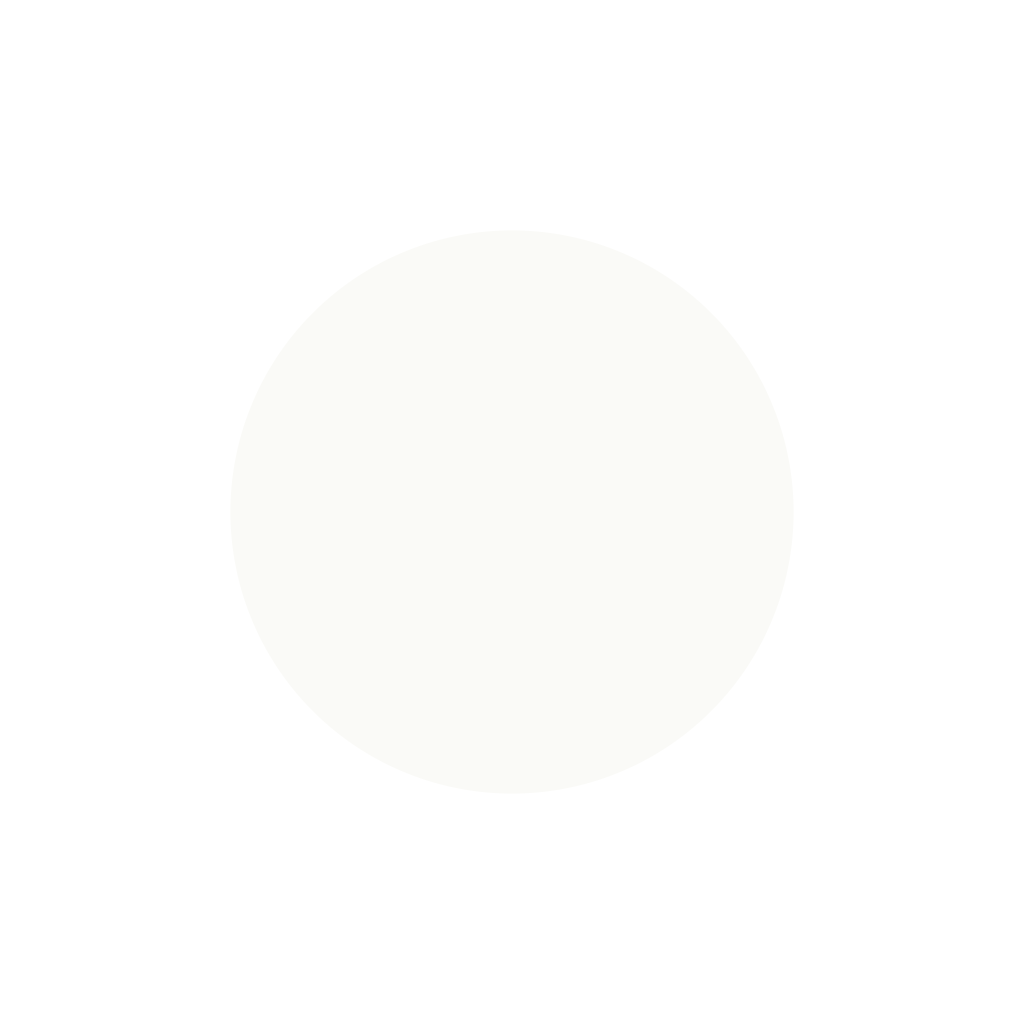
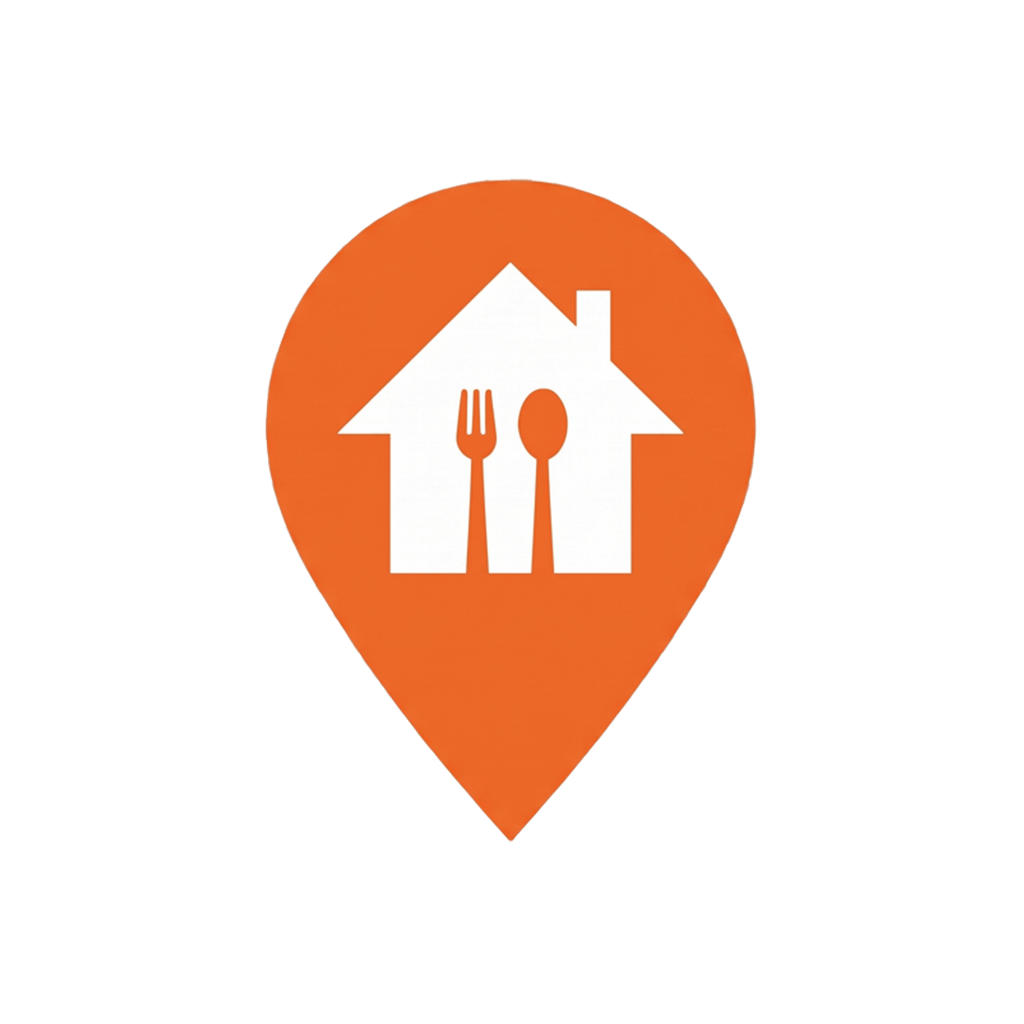
feat(mobile,admin): reemplazar el pin dibujado a mano por el isotipo real
El pin de PinFoodHub (mobile) y el marker de LogoFoodhub (admin) eran
reconstrucciones a mano del isotipo, según advertían sus propios
comentarios. Se incrusta IsotipoFoodHub.png tal cual en los dos
componentes, se regenera adaptive-icon.png con el isotipo centrado en
la zona segura de Android (con backgroundColor blanco para que no se
funda con el pin naranja) y se agrega el favicon del panel admin, que
no existía.

Changed region(s): [[0.25, 0.1562, 0.75, 0.8125]]

diff --git a/apps/mobile/src/components/Marca.tsx b/apps/mobile/src/components/Marca.tsx
@@ -1,75 +1,28 @@
 import { View, Text } from 'react-native';
-import { Path, Svg } from 'react-native-svg';
-import { useResolveClassNames } from 'uniwind';
+import { Image } from 'expo-image';
+import isotipoFoodHub from '../../assets/isotipo-foodhub.png';
 
-/**
- * Isotipo y logotipo de FoodHub.
- *
- * ADVERTENCIA SOBRE EL ORIGEN DE ESTE DIBUJO
- * ---------------------------------------------------------------------------
- * El repositorio no tiene el archivo vectorial de la marca: `assets/` solo
- * trae marcadores de posición (un círculo plano). El pin de acá es una
- * reconstrucción del que muestra la maquetación —gota con una casita y
- * cubiertos adentro— redibujada con los tokens de la guía visual, no el
- * original. Cuando el archivo real entre al repositorio hay que reemplazarlo:
- * es lo único de este módulo que no sale de una fuente aprobada.
- */
+// El PNG fuente es de 1024x1060; se conserva esa proporción al escalar.
+const RELACION_DE_ASPECTO = 1060 / 1024;
 
-/** Gota de FoodHub. El color sale de un token, nunca de un literal. */
-export function PinFoodHub({
-  size = 96,
-  className = 'text-primary',
-}: {
-  size?: number;
-  className?: string;
-}) {
-  const estiloMarca = useResolveClassNames(className);
-  const estiloInterior = useResolveClassNames('text-surface');
-  const marca =
-    typeof estiloMarca.color === 'string' ? estiloMarca.color : undefined;
-  const interior =
-    typeof estiloInterior.color === 'string' ? estiloInterior.color : undefined;
-
+/** Pin de FoodHub. Es el isotipo aprobado, no una reconstrucción a mano. */
+export function PinFoodHub({ size = 96 }: { size?: number }) {
   return (
-    <Svg
-      width={size}
-      height={size * 1.22}
-      viewBox="0 0 48 58"
-      fill="none"
+    <Image
       accessibilityLabel="FoodHub"
-    >
-      <Path
-        d="M24 1.5C11.85 1.5 2 11.35 2 23.5c0 15.4 18.6 30.8 21.05 32.75a1.5 1.5 0 0 0 1.9 0C27.4 54.3 46 38.9 46 23.5 46 11.35 36.15 1.5 24 1.5Z"
-        fill={marca}
-      />
-      <Path
-        d="M13.5 21.6 24 13.5l10.5 8.1v13.15a1.6 1.6 0 0 1-1.6 1.6H15.1a1.6 1.6 0 0 1-1.6-1.6V21.6Z"
-        fill={interior}
-      />
-      <Path
-        d="M20.4 20.4v4.2a1.7 1.7 0 0 0 3.4 0v-4.2M22.1 24.6v7.6"
-        stroke={marca}
-        strokeWidth={1.9}
-        strokeLinecap="round"
-        strokeLinejoin="round"
-      />
-      <Path
-        d="M27.6 20.4c-1.1 0-2 1.4-2 3.2s.9 3.2 2 3.2v8.4"
-        stroke={marca}
-        strokeWidth={1.9}
-        strokeLinecap="round"
-        strokeLinejoin="round"
-      />
-    </Svg>
+      source={isotipoFoodHub}
+      style={{ width: size, height: size * RELACION_DE_ASPECTO }}
+      contentFit="contain"
+    />
   );
 }
 
 /**
- * Logotipo horizontal: gota chica + palabra.
+ * Logotipo horizontal: pin chico + palabra.
  *
- * "Food" va en primario y "hub" en secundario, como en la guía. Se compone con
- * dos `Text` y no con una imagen para que escale con la tipografía del sistema
- * y siga siendo legible con el cuerpo aumentado.
+ * "Food" va en primario y "hub" en secundario, como en la guía. El texto se
+ * compone con `Text` y no con una imagen para que escale con la tipografía
+ * del sistema y siga siendo legible con el cuerpo aumentado.
  */
 export function MarcaFoodHub({ size = 28 }: { size?: number }) {
   return (

diff --git a/apps/admin/src/components/LogoFoodhub.tsx b/apps/admin/src/components/LogoFoodhub.tsx
@@ -1,10 +1,10 @@
 import { clases } from '../lib/clases.js';
-import { IconoPin } from './iconos/index.js';
+import isotipoFoodhub from '../assets/isotipo-foodhub.png';
 
 /**
- * Marca de FoodHub tal como aparece en la maquetación: el pin naranja y el
- * wordmark partido en dos, "Food" en el color primario y "hub" en el color de
- * apoyo.
+ * Marca de FoodHub tal como aparece en la maquetación: el isotipo (pin
+ * naranja con casita y cubiertos) y el wordmark partido en dos, "Food" en el
+ * color primario y "hub" en el color de apoyo.
  *
  * El nombre completo va en un `aria-label` sobre un solo elemento: separado en
  * dos `<span>`, un lector de pantalla lo leería como "Food. hub".
@@ -16,7 +16,12 @@ export function LogoFoodhub({ className }: { className?: string | undefined }) {
       className={clases('inline-flex items-center gap-2', className)}
       role="img"
     >
-      <IconoPin className="size-6 text-primary" />
+      <img
+        alt=""
+        aria-hidden="true"
+        className="h-6 w-auto shrink-0"
+        src={isotipoFoodhub}
+      />
       <span
         aria-hidden="true"
         className="text-h2 font-extrabold tracking-tight"

diff --git a/apps/admin/src/components/iconos/index.tsx b/apps/admin/src/components/iconos/index.tsx
@@ -301,22 +301,3 @@ export function IconoChevronDerecha({ className }: PropsIcono) {
     </Trazo>
   );
 }
-
-/**
- * Pin del logo. Es el único ícono con relleno: en la marca es una forma
- * sólida, no un contorno.
- */
-export function IconoPin({ className }: PropsIcono) {
-  return (
-    <svg
-      aria-hidden="true"
-      className={clases('size-5 shrink-0', className)}
-      fill="currentColor"
-      focusable="false"
-      viewBox="0 0 24 24"
-      xmlns="http://www.w3.org/2000/svg"
-    >
-      <path d="M12 2.5a7.25 7.25 0 0 0-7.25 7.25c0 5.16 6.3 11.28 6.57 11.54a.97.97 0 0 0 1.36 0c.27-.26 6.57-6.38 6.57-11.54A7.25 7.25 0 0 0 12 2.5m0 10a2.75 2.75 0 1 1 0-5.5 2.75 2.75 0 0 1 0 5.5" />
-    </svg>
-  );
-}

diff --git a/apps/mobile/app.config.ts b/apps/mobile/app.config.ts
@@ -60,8 +60,11 @@ const config: ExpoConfig = {
     // el numero lo lleva el servidor de EAS y lo autoincrementa el perfil de
     // produccion. Un valor fijo aca lo ignora el build y solo confunde.
     adaptiveIcon: {
+      // El isotipo ya es un pin naranja: si el fondo también fuera naranja,
+      // se fundiría con la forma. El fondo va en --color-surface para que se
+      // vea igual que en el resto de la app (pin naranja sobre blanco).
       foregroundImage: './assets/adaptive-icon.png',
-      backgroundColor: '#EC6829', // --color-primary
+      backgroundColor: '#FFFFFF', // --color-surface
     },
     permissions: [
       // Búsqueda de cocineros por proximidad (alcance 2.2.2.2.2).

diff --git a/apps/mobile/env.d.ts b/apps/mobile/env.d.ts
@@ -27,3 +27,13 @@ declare namespace NodeJS {
     readonly APP_ENV?: 'development' | 'production';
   }
 }
+
+/**
+ * Metro resuelve `import x from './imagen.png'` a un asset id (`number`) o,
+ * con `expo-image`, a un módulo con `default`. Sin esta declaración TS no
+ * conoce la extensión y el import rompe la compilación (TS2307).
+ */
+declare module '*.png' {
+  const valor: number;
+  export default valor;
+}

diff --git a/apps/admin/index.html b/apps/admin/index.html
@@ -2,6 +2,7 @@
 <html lang="es-AR">
   <head>
     <meta charset="UTF-8" />
+    <link rel="icon" type="image/png" href="/favicon.png" />
     <meta name="viewport" content="width=device-width, initial-scale=1.0" />
     <meta name="description" content="Panel de administración de FoodHub" />
     <!-- El panel es interno: no debe indexarse. -->

diff --git a/apps/mobile/EAS.md b/apps/mobile/EAS.md
@@ -125,16 +125,25 @@ rm -rf android   # el proyecto es CNG: el directorio nativo no se versiona
 `notification-icon.png`. Sin esos tres archivos el prebuild aborta con
 `ENOENT ... adaptive-icon.png` y la build falla en EAS.
 
-Los que están hoy en `assets/` son **marcadores de posición** generados con los
-colores de la guía visual (`#EC6829` y `#FAFAF7`), no la identidad definitiva.
-Hay que reemplazarlos por el arte real del PDF de maquetación **antes de armar
-la build de `production`**:
+`adaptive-icon.png` ya es el isotipo real (`IsotipoFoodHub.png` del PDF de
+maquetación), centrado en la zona segura del 66% sobre fondo
+`--color-surface`. `splash.png` y `notification-icon.png` siguen siendo
+**marcadores de posición** generados con los colores de la guía visual
+(`#EC6829` y `#FAFAF7`), no la identidad definitiva. Hay que reemplazarlos por
+el arte real **antes de armar la build de `production`**:
 
-| Archivo                 | Tamaño    | Requisito                                                    |
-| ----------------------- | --------- | ------------------------------------------------------------ |
-| `adaptive-icon.png`     | 1024×1024 | capa frontal; Android recorta al 66% central                 |
-| `splash.png`            | 1024×1024 | se dibuja sobre `#FAFAF7`, con `resizeMode: contain`         |
-| `notification-icon.png` | 96×96     | silueta blanca sobre transparente; Android descarta el color |
+| Archivo                 | Tamaño    | Requisito                                                    | Estado       |
+| ----------------------- | --------- | ------------------------------------------------------------ | ------------ |
+| `adaptive-icon.png`     | 1024×1024 | capa frontal; Android recorta al 66% central                 | isotipo real |
+| `splash.png`            | 1024×1024 | se dibuja sobre `#FAFAF7`, con `resizeMode: contain`         | placeholder  |
+| `notification-icon.png` | 96×96     | silueta blanca sobre transparente; Android descarta el color | placeholder  |
+
+Un cambio en `adaptive-icon.png` (o en `adaptiveIcon.backgroundColor` de
+`app.config.ts`) no se ve con Metro/hot reload: es un recurso nativo que se
+empaqueta en el `prebuild`. Para verlo en el teléfono hace falta una build
+nueva (`pnpm --filter @foodhub/mobile run build:dev`) e instalarla; como
+`development` conserva el mismo `applicationId`, instalar el APK nuevo
+reemplaza al anterior sin desinstalar a mano.
 
 ## `userInterfaceStyle`
 
